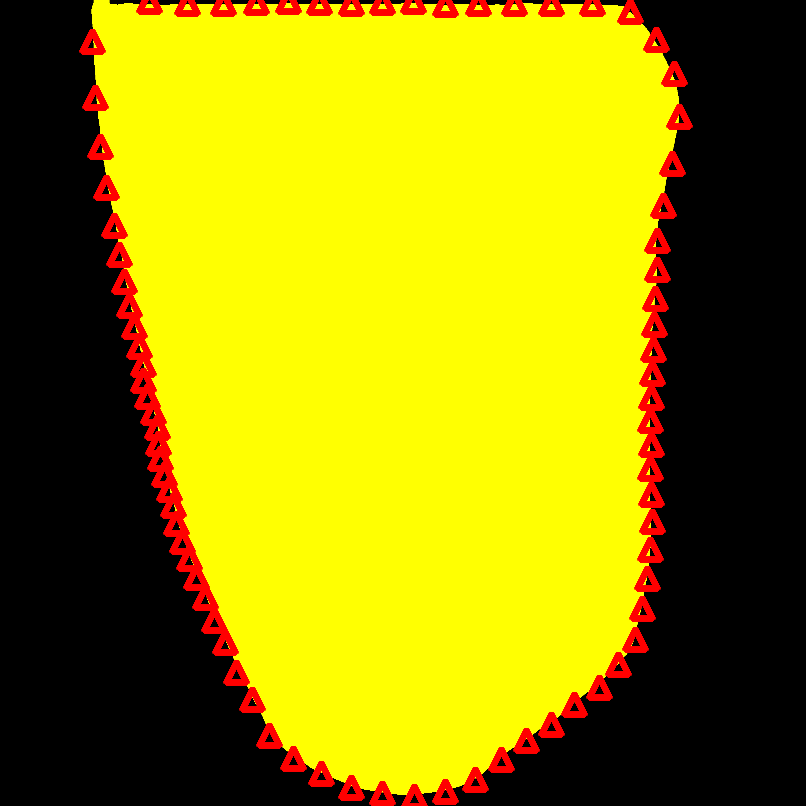
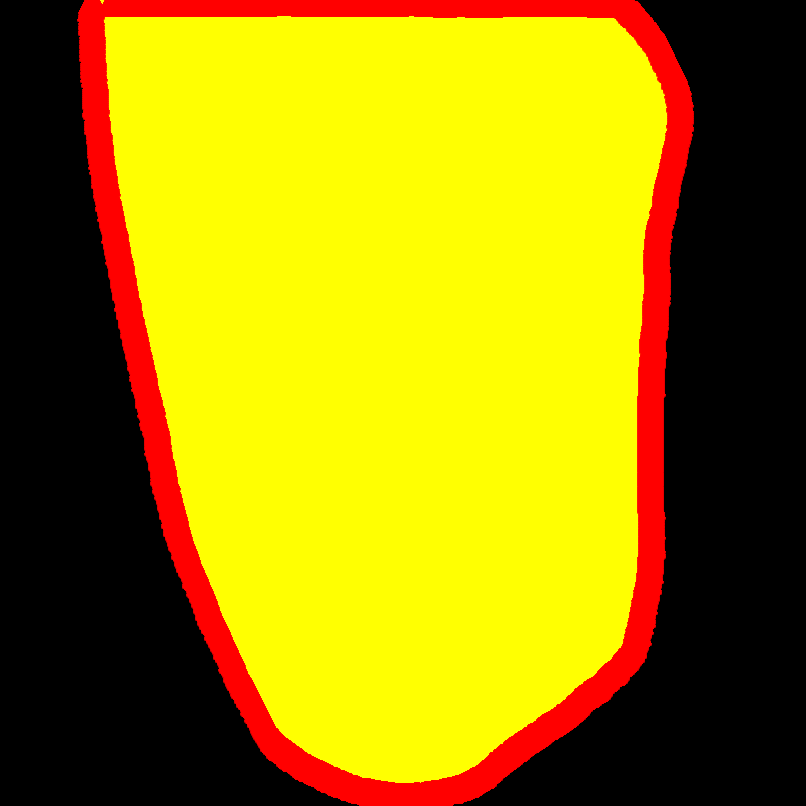
finished naive algorithm. There are still some significant fill issues, but the basic idea is there.

Changed region(s): [[0.0931, 0.0, 0.8685, 1.0]]

diff --git a/Deformation_Matching/polar_line_estimation.py b/Deformation_Matching/polar_line_estimation.py
@@ -2,8 +2,12 @@ import cv2
 import sys
 import math
 import time
+from tqdm import tqdm
 import numpy as np
 from scipy import ndimage
+
+def dist(t1, t2):
+    return ((t1[0] - t2[0])**2 + (t1[1] - t2[1])**2)**0.5
 
 def loadImgs(image_1_path, mask_1_path, image_2_path, mask_2_path):
     img1 = cv2.imread(image_1_path)
@@ -21,27 +25,29 @@ def loadImgs(image_1_path, mask_1_path, image_2_path, mask_2_path):
 
 def resizeImgs(img1, mask1, img2, mask2):
     scl = 5
-    img1 = cv2.resize(img1, (img1.shape[0]//scl, img1.shape[0]//scl))
-    mask1 = cv2.resize(mask1, (mask1.shape[0]//scl, mask1.shape[0]//scl))
-    img2 = cv2.resize(img2, (img2.shape[0]//scl, img2.shape[0]//scl))
-    mask2 = cv2.resize(mask2, (mask2.shape[0]//scl, mask2.shape[0]//scl))
+    img1 = cv2.resize(img1, (img1.shape[1]//scl, img1.shape[0]//scl))
+    mask1 = cv2.resize(mask1, (mask1.shape[1]//scl, mask1.shape[0]//scl))
+    img2 = cv2.resize(img2, (img2.shape[1]//scl, img2.shape[0]//scl))
+    mask2 = cv2.resize(mask2, (mask2.shape[1]//scl, mask2.shape[0]//scl))
 
     return (img1, mask1, img2, mask2)
 
-def compute_center(mask, saveFile):
+def compute_center(mask, saveFile, showprocess=False):
     # Let's take only one layer of the mask
     layer1 = mask[:,:,0]
     layer1[layer1 > 1] = 1
 
     center_coordinates = (int(ndimage.center_of_mass(layer1)[0]), int(ndimage.center_of_mass(layer1)[1]))
 
-    # Show image
-    scl = 1
-    image = cv2.circle(cv2.resize(mask, (mask.shape[0]//scl, mask.shape[0]//scl)), (center_coordinates[0]//scl, center_coordinates[1]//scl), 20, (255, 0, 0), 2)
-    cv2.imshow("center", image)
-    cv2.waitKey(1000)
-    cv2.destroyAllWindows()
-    cv2.imwrite(saveFile, image)
+    if showprocess:
+        # Show image
+        scl = 1
+        image = cv2.circle(cv2.resize(mask, (mask.shape[0]//scl, mask.shape[0]//scl)), (center_coordinates[0]//scl, center_coordinates[1]//scl), 20, (255, 0, 0), 2)
+    
+        cv2.imshow("center", image)
+        cv2.waitKey(1000)
+        cv2.destroyAllWindows()
+        cv2.imwrite(saveFile, image)
 
     print(center_coordinates)
     return center_coordinates
@@ -49,6 +55,7 @@ def compute_center(mask, saveFile):
 
 def compute_polar_line(mask, center, saveFile, showprocess=False):
 
+    print("Starting edge search for image: ", saveFile)
     start = time.perf_counter()
 
     # set masks
@@ -56,8 +63,8 @@ def compute_polar_line(mask, center, saveFile, showprocess=False):
     mask = mask[:,:,0].squeeze()
 
     # Test 360 "rays" for each mask
-    numrays = 80 # [1,360)
-    moveby = 2
+    numrays = 20000 # [1,360)
+    moveby = 0.5
 
     outline = []
 
@@ -76,7 +83,7 @@ def compute_polar_line(mask, center, saveFile, showprocess=False):
         movedby = 0
         while search_pnt[0] < mask.shape[0] and search_pnt[0] > 0 and search_pnt[1] < mask.shape[1] and search_pnt[1] > 0:
             
-            cur_pnt = True if mask[search_pnt[1], search_pnt[0]] > 0 else False
+            cur_pnt = True if mask[search_pnt[0], search_pnt[1]] > 0 else False
             
             if cur_pnt == False and last_pnt == True:
                 leaving_points.append((search_pnt[0], search_pnt[1]))
@@ -104,30 +111,86 @@ def compute_polar_line(mask, center, saveFile, showprocess=False):
         try:
             outline.append(leaving_points[0])
         except:
+            outline.append((search_pnt[0], search_pnt[1]))
             pass
 
         angle += 360/numrays
     
     print("Total time to process image points = ", time.perf_counter() - start)
-    print("Visualizing points:")
-    start = time.perf_counter()
 
     # Print Image
-    for item in outline:
-        if len(outline) > 1:
-            for item2 in outline:
-                cv2.drawMarker(show_mask, tuple(item2),(0,0,255), markerType=cv2.MARKER_TRIANGLE_UP, markerSize=20, thickness=3, line_type=cv2.LINE_AA)
-        else:
-            cv2.drawMarker(show_mask, tuple(item),(0,0,255), markerType=cv2.MARKER_TRIANGLE_UP, markerSize=20, thickness=3, line_type=cv2.LINE_AA)
+    if showprocess:
+        print("Visualizing points:")
+        start = time.perf_counter()
+        for item in outline:
+            if len(outline) > 1:
+                for item2 in outline:
+                    cv2.drawMarker(show_mask, tuple(item2),(0,0,255), markerType=cv2.MARKER_TRIANGLE_UP, markerSize=20, thickness=3, line_type=cv2.LINE_AA)
+            else:
+                cv2.drawMarker(show_mask, tuple(item),(0,0,255), markerType=cv2.MARKER_TRIANGLE_UP, markerSize=20, thickness=3, line_type=cv2.LINE_AA)
+        
+        cv2.imshow("center", show_mask)
+        cv2.waitKey(3000)
+        cv2.destroyAllWindows()
+        cv2.imwrite(saveFile, show_mask)
 
-    print("Total time to visualizeimage points = ", time.perf_counter() - start)
+        print("Total time to visualizeimage points = ", time.perf_counter() - start)
+    # print(len(outline))
+    return outline
+
+# Need to add thermal image
+def deform_image(img2, center, m1_edge_pts, m2_edge_pts, fileName):
     
-    cv2.imshow("center", show_mask)
-    cv2.waitKey(3000)
-    cv2.destroyAllWindows()
-    cv2.imwrite(saveFile, show_mask)
+    print("Starting Image Deformation")
+    start = time.perf_counter()
+    new_img2 = img2.copy()
 
-    print(len(outline))
+    stepsize = 0.2
+
+    # Iterate over all angle copies saved
+    assert len(m1_edge_pts) == len(m2_edge_pts)
+    for i in tqdm(range(len(m1_edge_pts))):
+        # compute ratio:
+        m1_center_dist = dist(m1_edge_pts[i], center)
+        m2_center_dist = dist(m2_edge_pts[i], center)
+        ratio = m2_center_dist/m1_center_dist
+
+        angle = math.degrees(math.atan2((m2_edge_pts[i][0] - m1_edge_pts[i][0]), (m2_edge_pts[i][1] - m1_edge_pts[i][1])))
+        # print("Angle: ", angle, ", Ratio: ", ratio)
+
+        movedby = 0
+
+        # Iterate over original image between center and edge, and recompute pixel placement in copied image
+        search_pnt = np.array(center)
+        while dist(tuple(search_pnt), center) <= dist(center, m1_edge_pts[i]):
+
+            # print(movedby, dist(tuple(search_pnt), center))
+            search_pnt[0] = center[0] + movedby*math.sin(math.radians(angle))
+            search_pnt[1] = center[1] + movedby*math.cos(math.radians(angle))
+
+            scaled_pnt_y = int(center[0] + movedby*math.sin(math.radians(angle))*ratio)
+            scaled_pnt_x = int(center[1] + movedby*math.cos(math.radians(angle))*ratio)
+
+            # Update transformed image
+            try:
+                new_img2[scaled_pnt_y, scaled_pnt_x] = img2[search_pnt[0], search_pnt[1]]
+            except:
+                break
+
+
+            # cv2.drawMarker(new_img2, tuple(search_pnt),(0,0,255), markerType=cv2.MARKER_TRIANGLE_UP, markerSize=20, thickness=3, line_type=cv2.LINE_AA)
+            # cv2.imshow("center", new_img2)
+            # cv2.waitKey(30)
+            # cv2.destroyAllWindows()
+
+            # print("Point: (", scaled_pnt_y, ", ", scaled_pnt_x, ") moved to position ", search_pnt)
+
+            # Update point location
+            movedby += stepsize
+
+    cv2.imwrite(fileName, new_img2)
+    print("Total time to deform = ", time.perf_counter() - start)
+    pass
 
 if __name__ == "__main__":
 
@@ -140,12 +203,18 @@ if __name__ == "__main__":
 
     img1, mask1, img2, mask2 = loadImgs(image_1_path, mask_1_path, image_2_path, mask_2_path)
     img1, mask1, img2, mask2 = resizeImgs(img1, mask1, img2, mask2)
+    assert img1.shape == mask1.shape
+    assert img2.shape == mask2.shape
 
     center_m1 = compute_center(mask1, "computed_images/m1_center.png")
     center_m2 = compute_center(mask2, "computed_images/m2_center.png")
 
-    m1_edges = compute_polar_line(mask1, center_m1, "computed_images/m1_edges.png")
-    m2_edges = compute_polar_line(mask2, center_m2, "computed_images/m2_edges.png")
+    x1 = (center_m1[0] + center_m2[0])//2
+    x2 = (center_m1[1] + center_m2[1])//2
+    center = (x1,x2)
+
+    m1_edge_pts = compute_polar_line(mask1, center, "computed_images/m1_edges.png")
+    m2_edge_pts = compute_polar_line(mask2, center, "computed_images/m2_edges.png")
 
     # Now we have the centers, edges, and the lines that connect them. We simply have to "extend" the lines of pixels in one image to the other image.
-
+    deform_image(img1, center, m1_edge_pts, m2_edge_pts, "computed_images/deformed_" + sys.argv[1].split('/')[-1])
